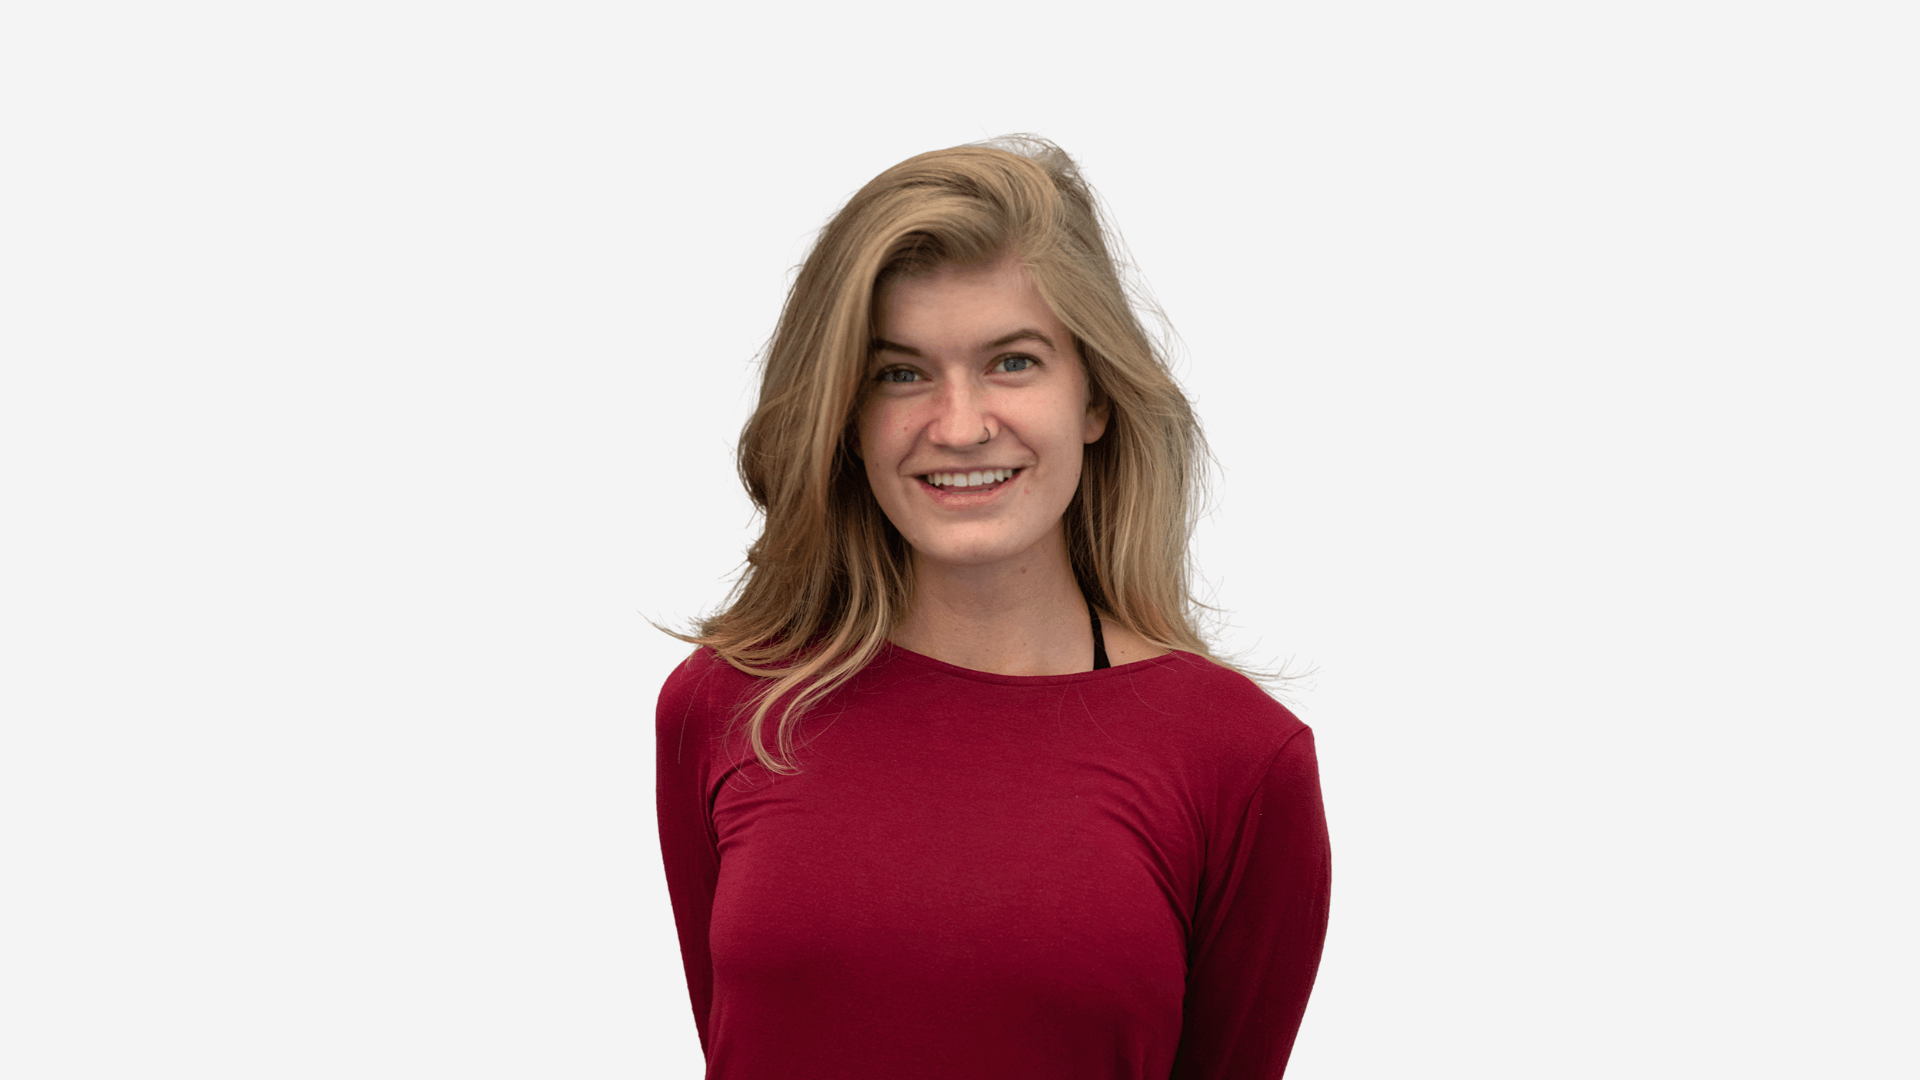
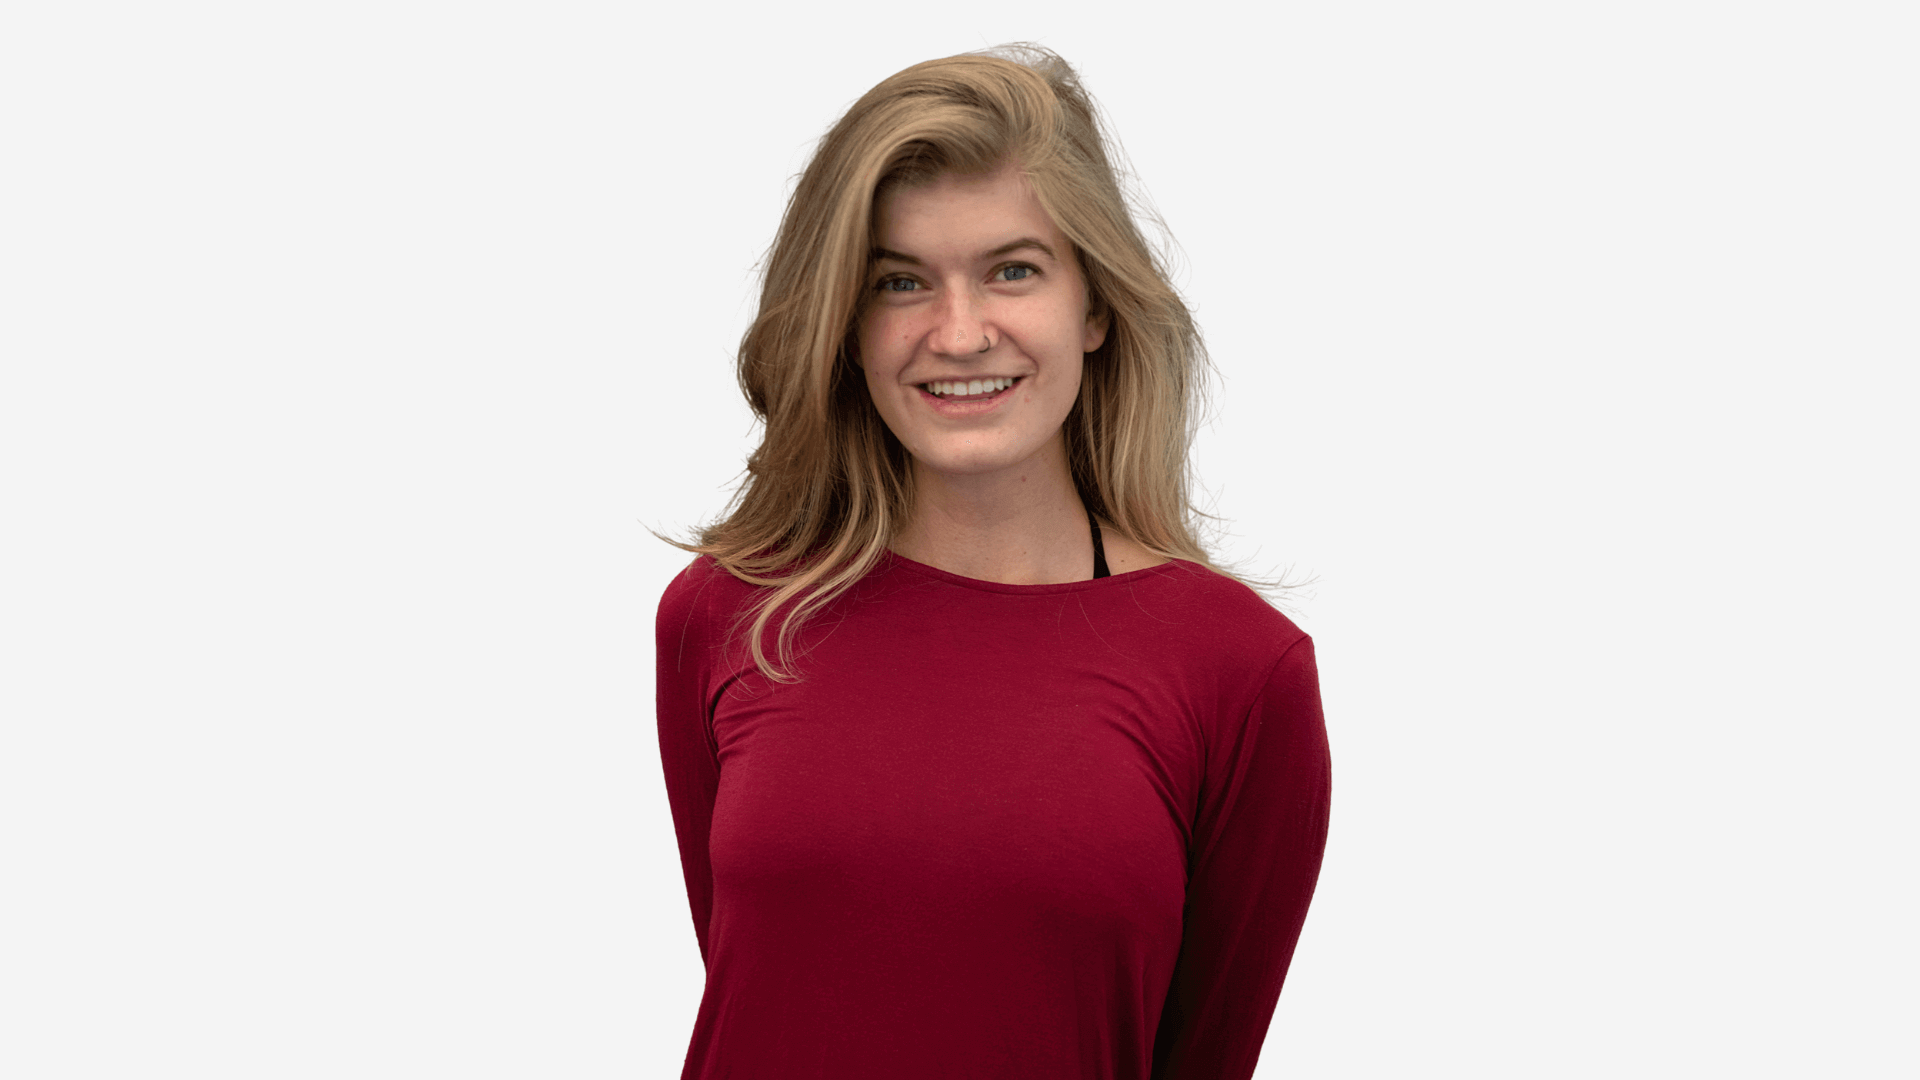
resized desktop cover photo and changed verbiage in skills section

Changed region(s): [[0.3438, 0.0306, 0.7188, 1.0]]

diff --git a/index.html b/index.html
@@ -145,7 +145,7 @@
       <div class="card-body">
         <h3 class="card-title">Social<br>Media</h3><br>
         <h4 class="card-subtitle">Favorite tool:<br> <strong><a href="https://sproutsocial.com/" target="blank">Sprout Social</a></strong></h4><br>
-        <p class="card-text">Doomscrolling is the worst. That’s why I love creating social media content that is substantive and fun!</p>
+        <p class="card-text">Doomscrolling is the worst. That’s why I love creating social media content that is informative, engaging, and actionable.</p>
       </div>
     </div>
     <div class="card" style="width: 18rem;">
